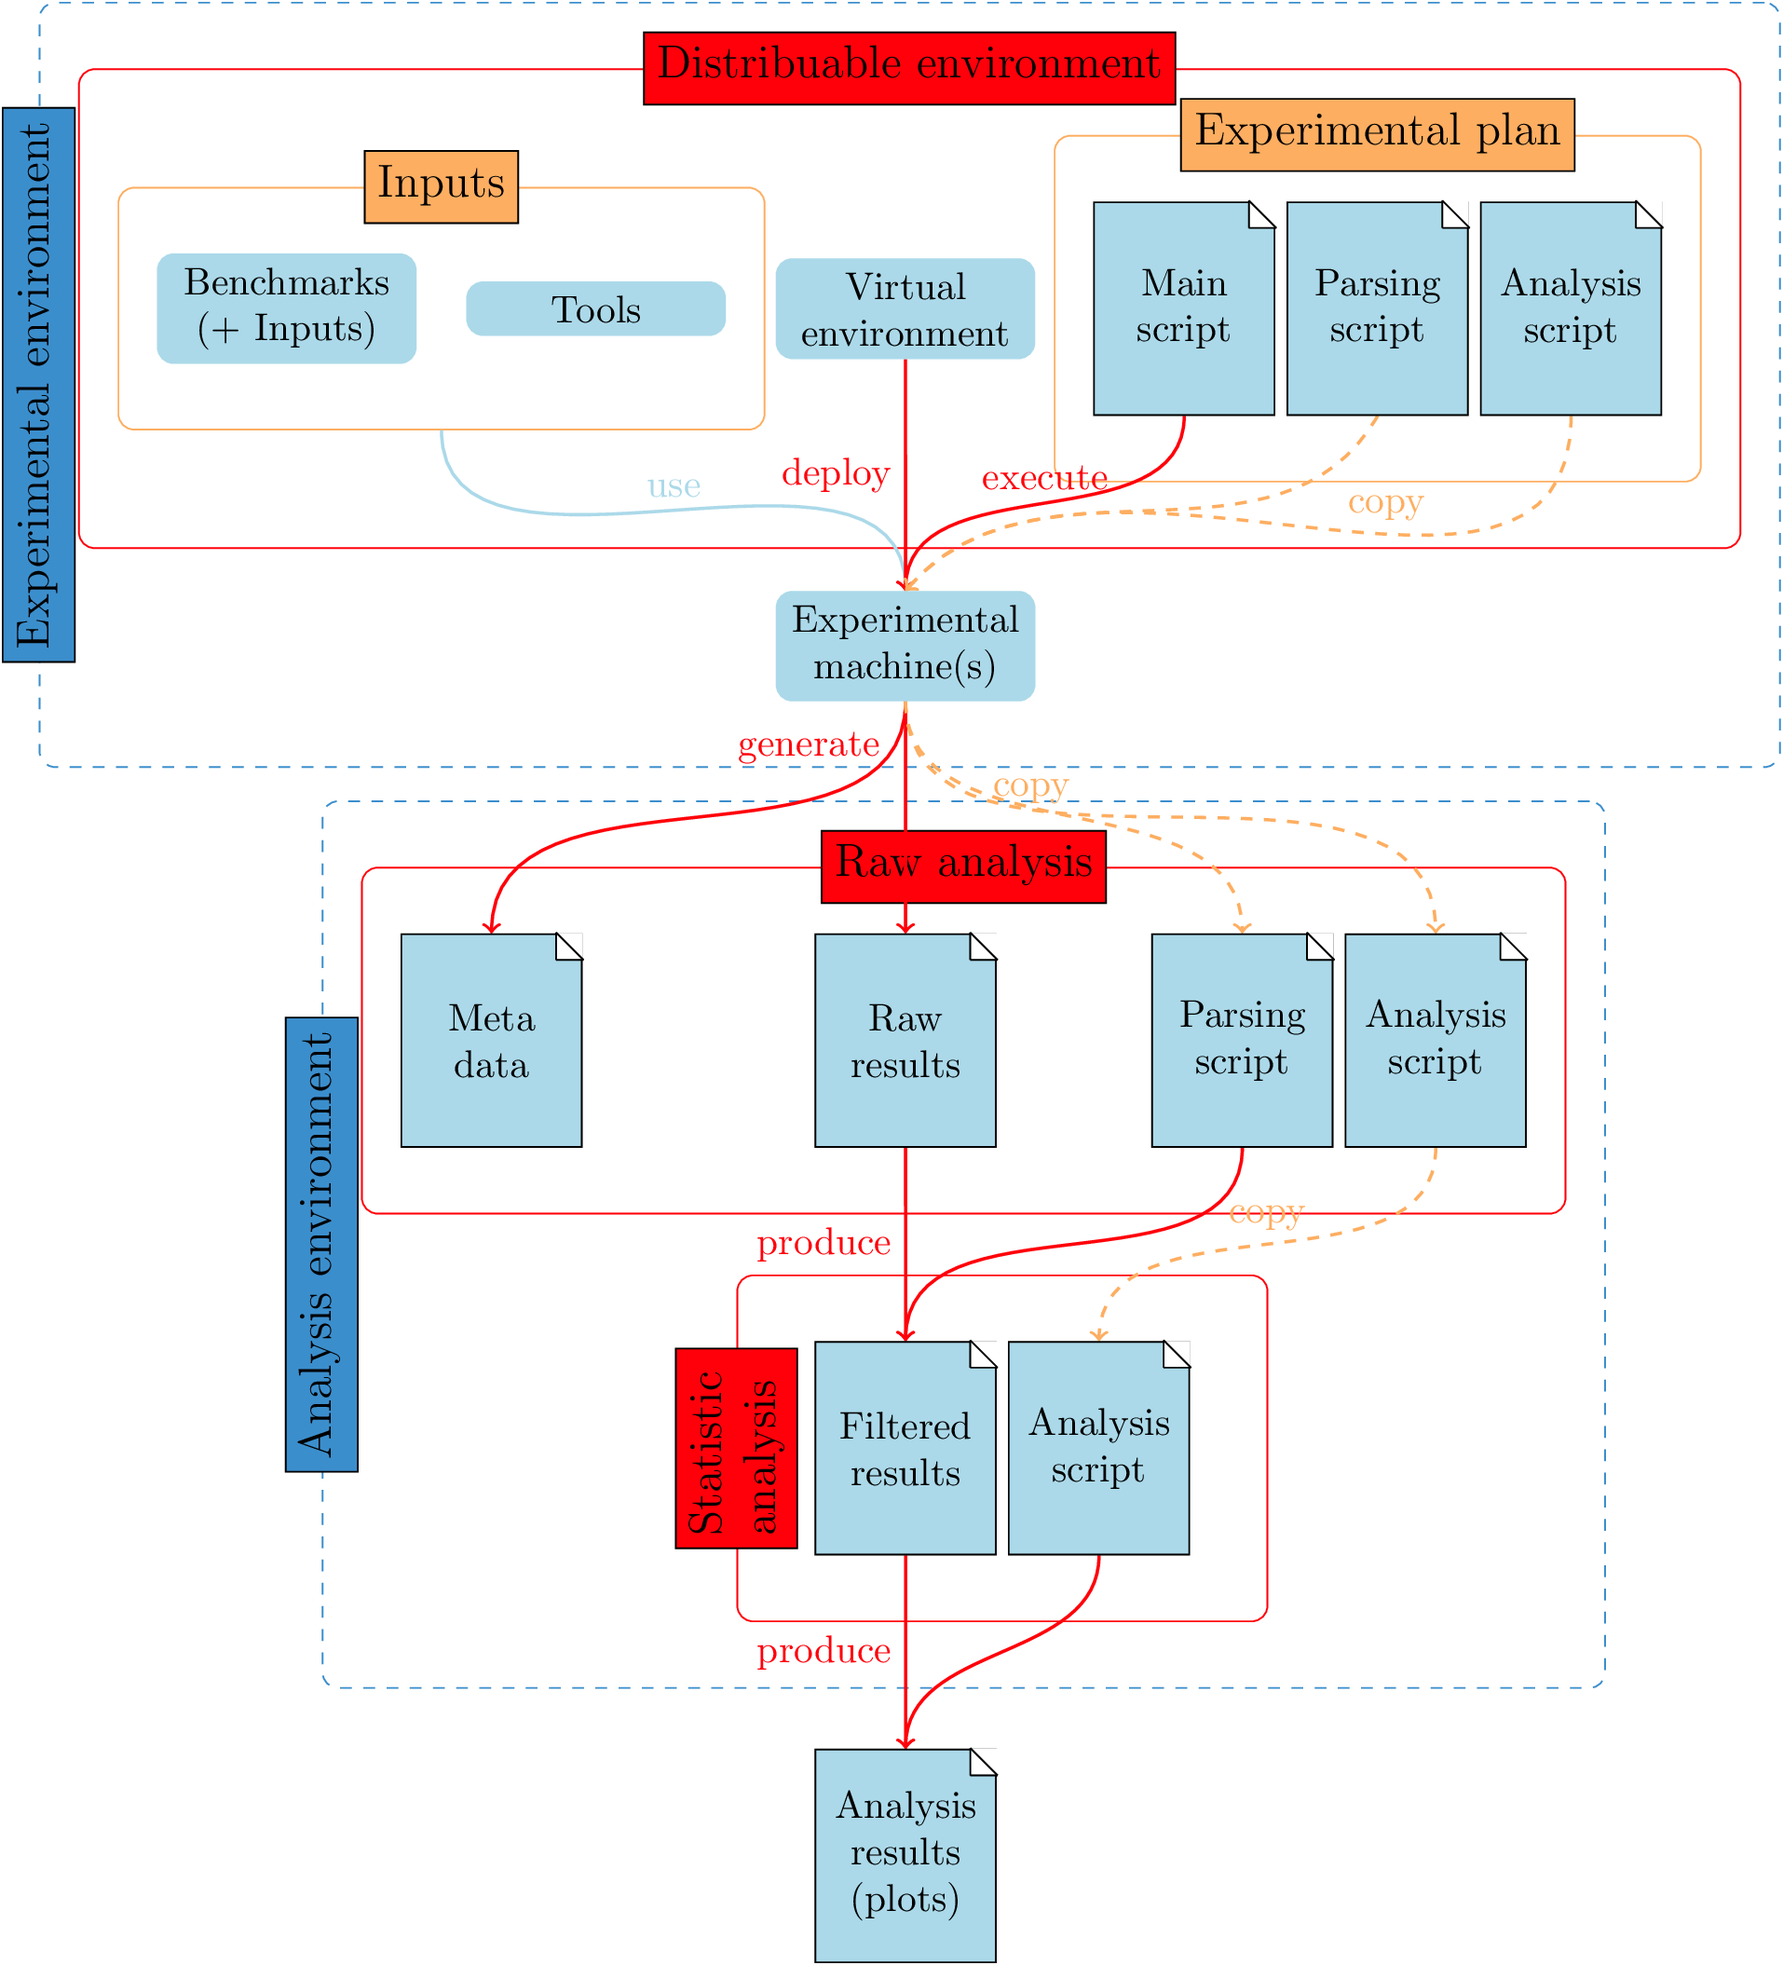
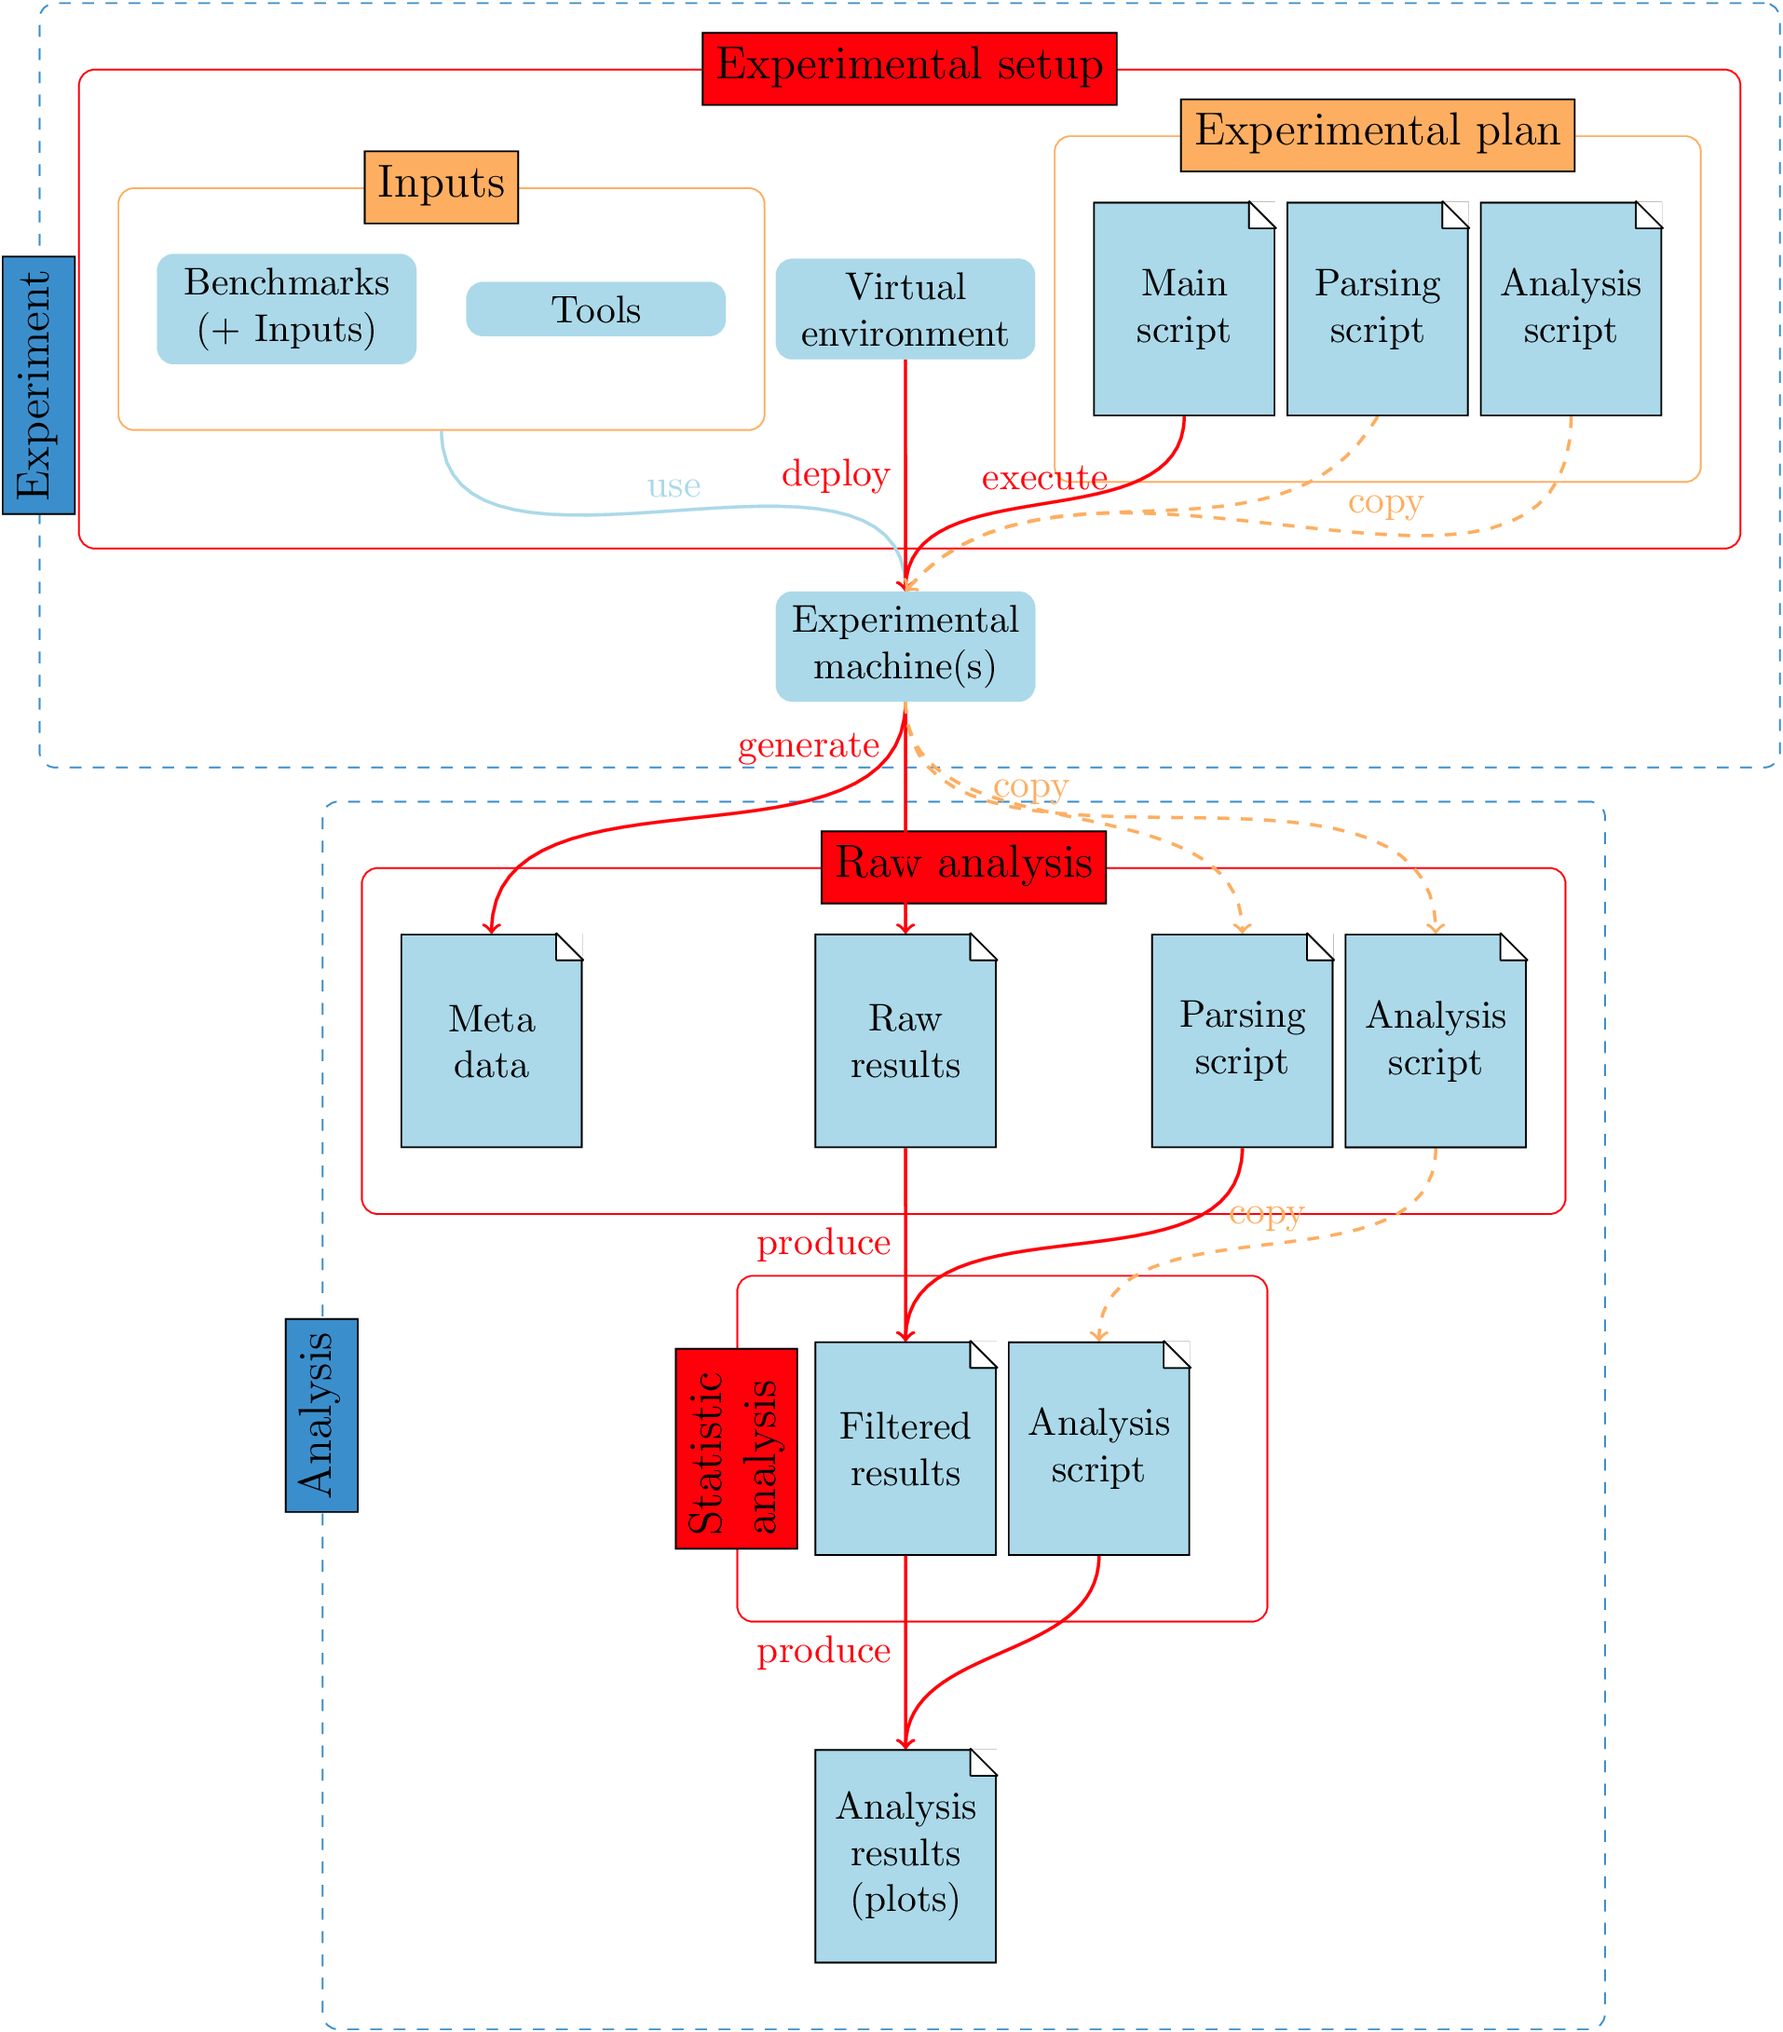
statistic analysis archive

diff --git a/README.md b/README.md
@@ -7,10 +7,11 @@ System" submitted at HPDC'16.
 We provides three different levels of reproducibility of our experiments which
 represents the diffrents steps of the [experimental pipeline](#fig:pipe):
 
-1. **Experiment reproduction** (distribuable environment): reproduce the whole
-expriment, requires access to grid5000 machine or similar ones.
+1. **Experimental setup:**: Every thing required (except the machines) to
+reproduce the whole expriment.
 2. **Raw analysis**: Parse our raw traces and reproduce the complete analysis
-requires only a unix with standard command and `R` installed.
+requires only a unix with standard command and `R` installed. **Warning:** these
+traces are quite heavy, it represent around 80Gib of data !
 3. **Statistic analysis:** Reproduce only the final analysis, requires only
 `R`.
 
@@ -18,8 +19,10 @@ requires only a unix with standard command and `R` installed.
 
 ## Statistic analysis
 
-All the files needed to reproduce our statistic analysis are in this archive
-**Link available soon**.
+All the files needed to reproduce our statistic analysis are in this archive:
+
+[![DOI](https://zenodo.org/badge/doi/10.5281/zenodo.45044.svg)](http://dx.doi.org/10.5281/zenodo.45044)
+
 The archive contains 3 directories:
 
 * `Global-NAS_edel`: results of the experiment from Edel machines.
